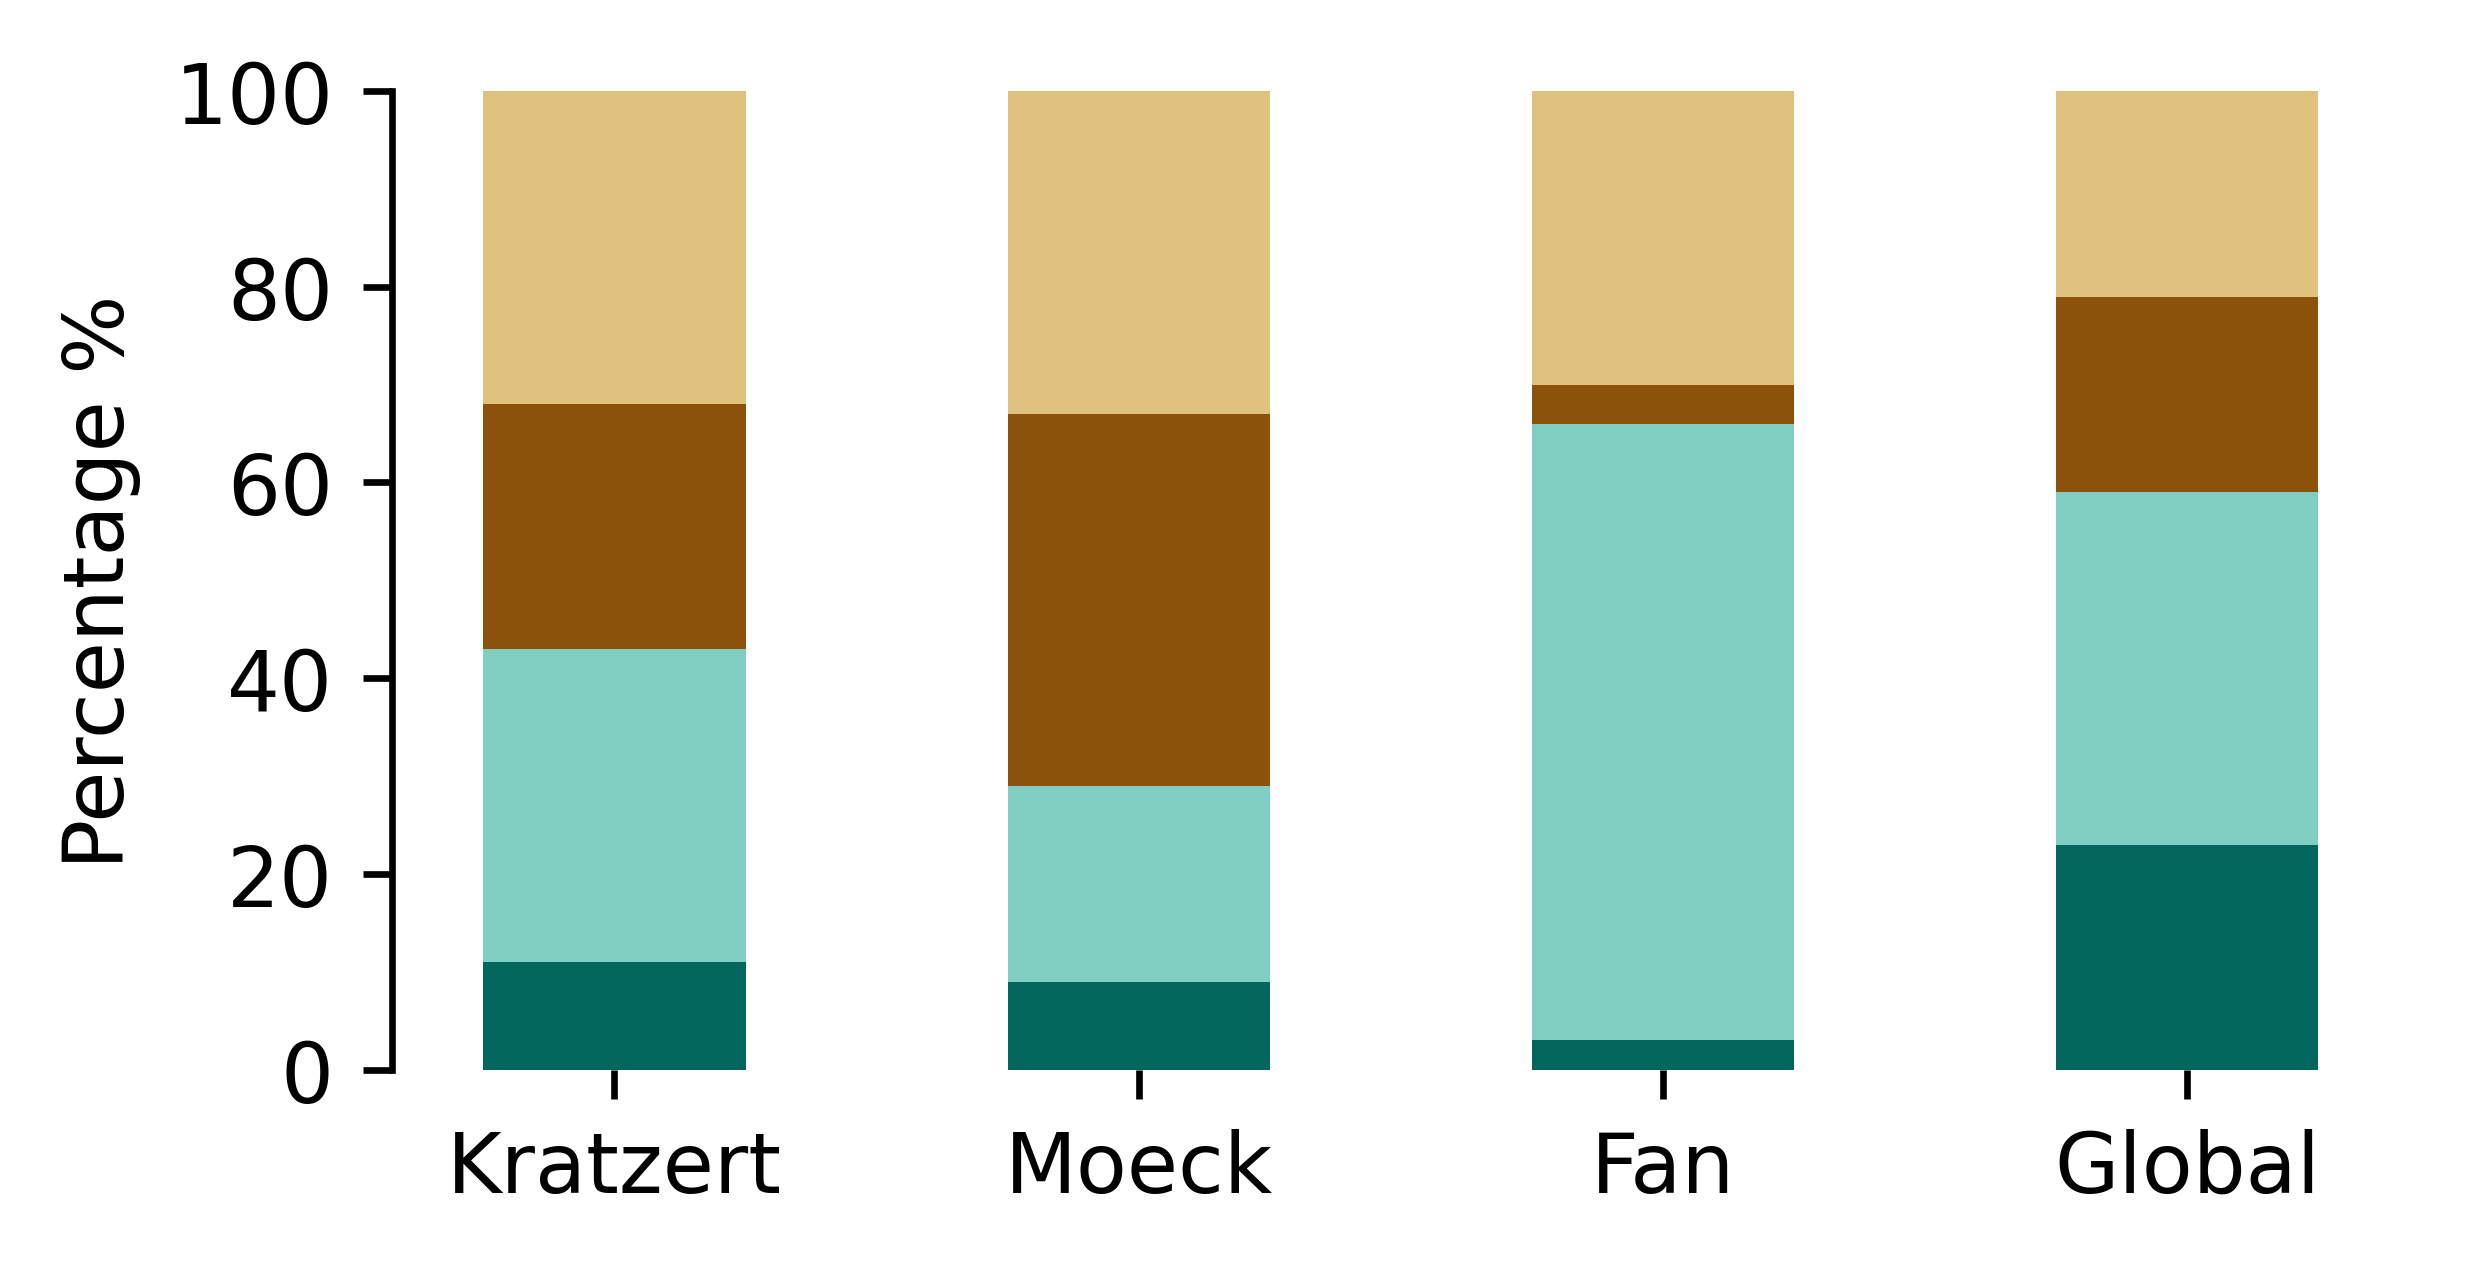
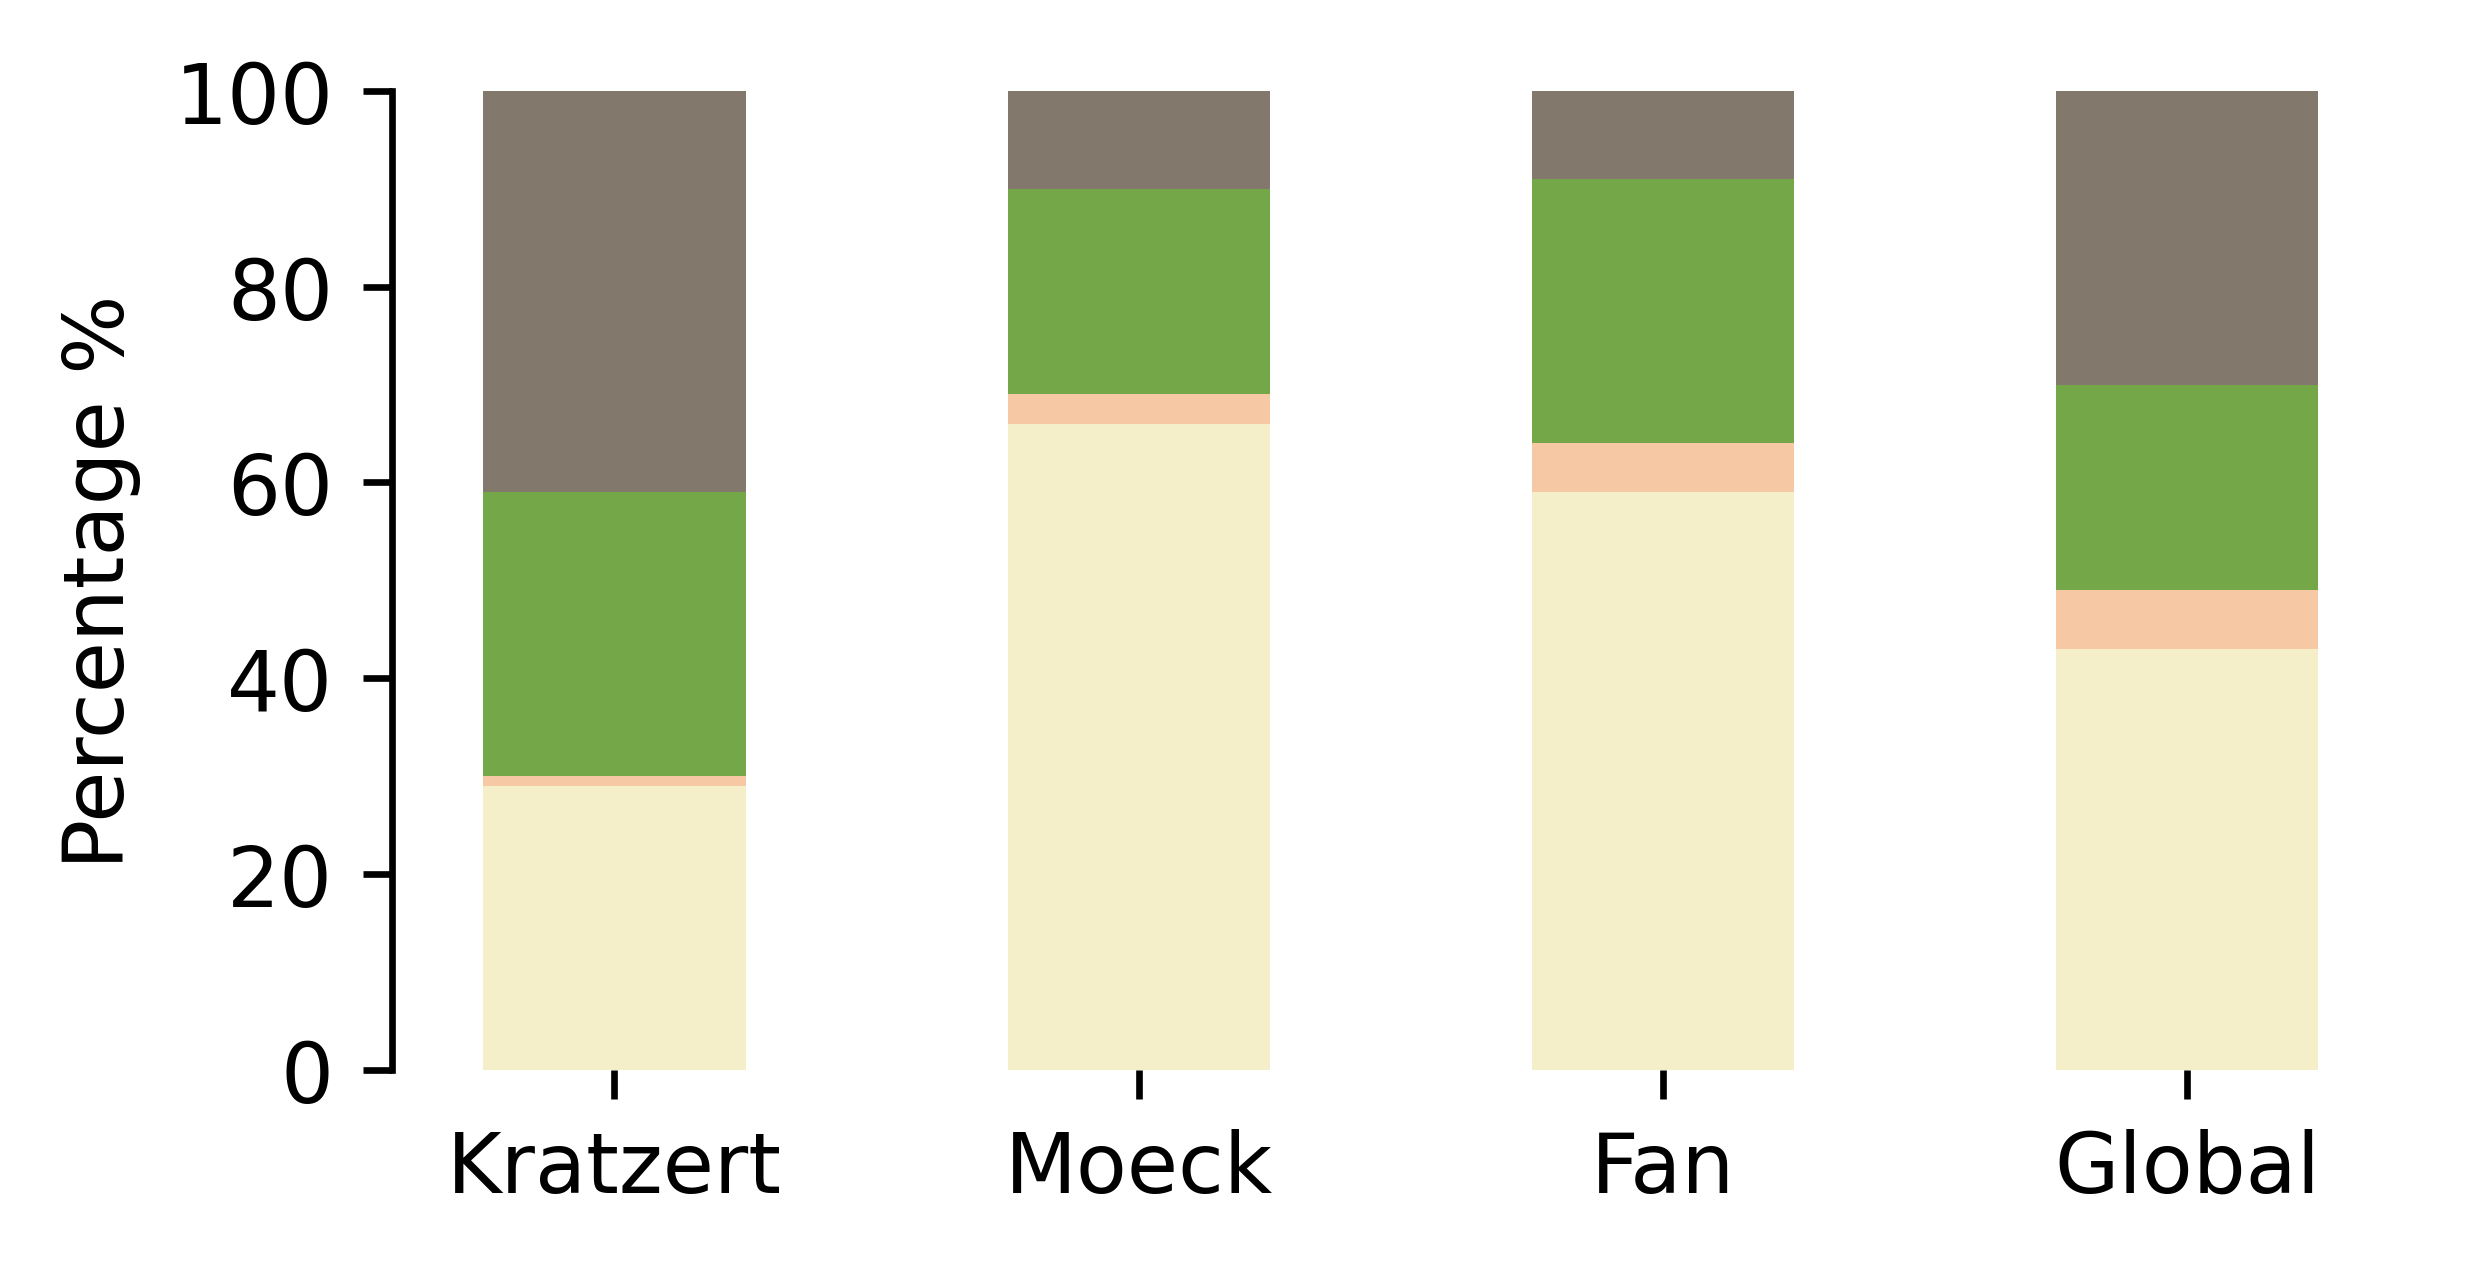
update data bias plot

diff --git a/plot_data_bias.py b/plot_data_bias.py
@@ -1,0 +1,68 @@
+import matplotlib.pyplot as plt
+import pandas as pd
+import os
+
+# Creates plot that compares global distributions of different datasets.
+
+# check if folder exists
+results_path = "./results/data_bias/"
+if not os.path.isdir(results_path):
+    os.makedirs(results_path)
+
+# only landforms
+# load and process data
+df = pd.read_csv("data/data_bias.csv", sep='\t')
+
+
+x = ["Kratzert", "Moeck", "Fan", "Global"]
+#x = ['Global', 'Streamflow (Kratzert et al., 2023)', 'Groundwater recharge (Moeck et al., 2020)', 'Water table depth (Fan et al., 2013)']
+y0 = 100*df.loc[0].values[1:]
+y1 = 100*df.loc[1].values[1:]
+y2 = 100*df.loc[2].values[1:]+1 # to compensate for rounding error
+y3 = 100*df.loc[3].values[1:]+1
+fig = plt.figure(figsize=(4, 2), constrained_layout=True)
+width = 0.5
+bar1 = plt.bar(x, y0, width=width, color='#f4efc8', label='Plains')
+bar2 = plt.bar(x, y1, bottom=y0, width=width, color='#f6c8a3', label='Plateaus')
+bar3 = plt.bar(x, y2, bottom=y0+y1, width=width, color='#74a747', label='Hills')
+bar4 = plt.bar(x, y3, bottom=y0+y1+y2, width=width, color='#83786c', label='Mountains')
+#plt.xlabel("Landform")
+plt.ylabel('Percentage %')
+plt.ylim([0,100])
+ax = plt.gca()
+ax.spines['top'].set_visible(False)
+ax.spines['right'].set_visible(False)
+ax.spines['bottom'].set_visible(False)
+#ax.spines['left'].set_visible(False)
+#plt.legend()
+plt.savefig(results_path + "data_bias_stacked"  + ".png", dpi=600, bbox_inches='tight')
+plt.close()
+
+
+# including aridity
+# load and process data
+df = pd.read_csv("data/data_bias_aridity.csv", sep='\t')
+
+x = ["Kratzert", "Moeck", "Fan", "Global"]
+#x = ['Global', 'Streamflow (Kratzert et al., 2023)', 'Groundwater recharge (Moeck et al., 2020)', 'Water table depth (Fan et al., 2013)']
+y0 = 100*df.loc[0].values[1:]
+y1 = 100*df.loc[1].values[1:]
+y2 = 100*df.loc[2].values[1:]+1 # to compensate for rounding error
+y3 = 100*df.loc[3].values[1:]+1
+fig = plt.figure(figsize=(4, 2), constrained_layout=True)
+width = 0.5
+bar1 = plt.bar(x, y0, width=width, color='#01665e', label='Humid plains')
+bar2 = plt.bar(x, y1, bottom=y0, width=width, color='#80cdc1', label='Arid plains')
+bar3 = plt.bar(x, y2, bottom=y0+y1, width=width, color='#8c510a', label='Humid uplands')
+bar4 = plt.bar(x, y3, bottom=y0+y1+y2, width=width, color='#dfc27d', label='Arid uplands')
+#plt.xlabel("Landform")
+plt.ylabel('Percentage %')
+plt.ylim([0,100])
+ax = plt.gca()
+ax.spines['top'].set_visible(False)
+ax.spines['right'].set_visible(False)
+ax.spines['bottom'].set_visible(False)
+#ax.spines['left'].set_visible(False)
+#plt.legend()
+plt.savefig(results_path + "data_bias_stacked_aridity"  + ".png", dpi=600, bbox_inches='tight')
+plt.close()

diff --git a/analyse_caravan_data.py b/analyse_caravan_data.py
@@ -76,6 +76,28 @@ print("Mountains " + ": " + str(round(df.loc[df["landform"]==1, "BFI"].mean(), 2
 #print("Uplands " + ": " + str(round(df.loc[np.logical_or(df["landform"]==1, df["landform"]==2, df["landform"]==3), "BFI"].mean(), 2)))
 print("Uplands " + ": " + str(round(df.loc[df["landform"]<4, "BFI"].mean(), 2)))
 
+# landform distribution
+print("Distribution landforms")
+print("Plains " + ": " + str(
+    round(len(df[df["landform"]==4]) / len(df), 2)))
+print("Tablelands " + ": " + str(
+    round(len(df[df["landform"]==3]) / len(df), 2)))
+print("Hills " + ": " + str(
+    round(len(df[df["landform"]==2]) / len(df), 2)))
+print("Mountains " + ": " + str(
+    round(len(df[df["landform"]==1]) / len(df), 2)))
+
+# stream order distribution
+print("Distribution landforms")
+print("Plains " + ": " + str(
+    round(len(df[df["landform"]==4]) / len(df), 2)))
+print("Tablelands " + ": " + str(
+    round(len(df[df["landform"]==3]) / len(df), 2)))
+print("Hills " + ": " + str(
+    round(len(df[df["landform"]==2]) / len(df), 2)))
+print("Mountains " + ": " + str(
+    round(len(df[df["landform"]==1]) / len(df), 2)))
+
 # reclassify landforms
 df.loc[df["landform"]==1, "landform"] = 5 # mountains
 df.loc[df["landform"]==2, "landform"] = 5 # hills
@@ -173,3 +195,4 @@ print("Humid and mountains " + ": " + str(
     round(len(df_tmp[np.logical_and(df["landform"]==5, df["aridity_30s"]<1)]) / len(df_tmp), 2)))
 print("Arid and mountains " + ": " + str(
     round(len(df_tmp[np.logical_and(df["landform"]==5, df["aridity_30s"]>1)]) / len(df_tmp), 2)))
+

diff --git a/analyse_fan_data.py b/analyse_fan_data.py
@@ -80,6 +80,17 @@ df = pd.read_csv(data_path + 'wtd_data.csv')
 df = df.dropna()
 df["dummy"] = ""
 
+# landform distribution
+print("Distribution landforms")
+print("Plains " + ": " + str(
+    round(len(df[df["landform"]==4]) / len(df), 2)))
+print("Tablelands " + ": " + str(
+    round(len(df[df["landform"]==3]) / len(df), 2)))
+print("Hills " + ": " + str(
+    round(len(df[df["landform"]==2]) / len(df), 2)))
+print("Mountains " + ": " + str(
+    round(len(df[df["landform"]==1]) / len(df), 2)))
+
 # reclassify landforms
 df.loc[df["landform"]==1, "landform"] = 5 # mountains
 df.loc[df["landform"]==2, "landform"] = 5 # hills

diff --git a/analyse_moeck_data.py b/analyse_moeck_data.py
@@ -67,6 +67,17 @@ df["dummy"] = ""
 
 #df = df.dropna()
 
+# landform distribution
+print("Distribution landforms")
+print("Plains " + ": " + str(
+    round(len(df[df["landform"]==4]) / len(df), 2)))
+print("Tablelands " + ": " + str(
+    round(len(df[df["landform"]==3]) / len(df), 2)))
+print("Hills " + ": " + str(
+    round(len(df[df["landform"]==2]) / len(df), 2)))
+print("Mountains " + ": " + str(
+    round(len(df[df["landform"]==1]) / len(df), 2)))
+
 df.loc[df["landform"]==1, "landform"] = 5 # mountains
 df.loc[df["landform"]==2, "landform"] = 5 # hills
 df.loc[df["landform"]==3, "landform"] = 5 # plateaus
